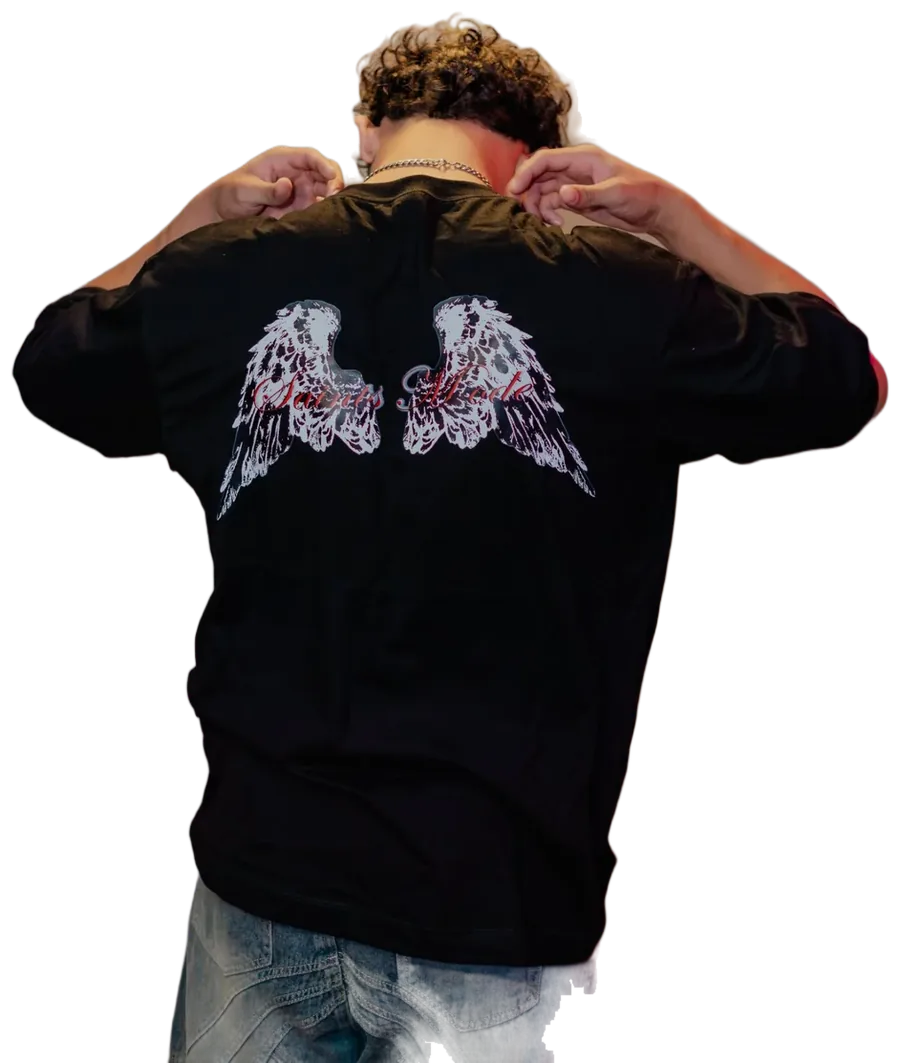
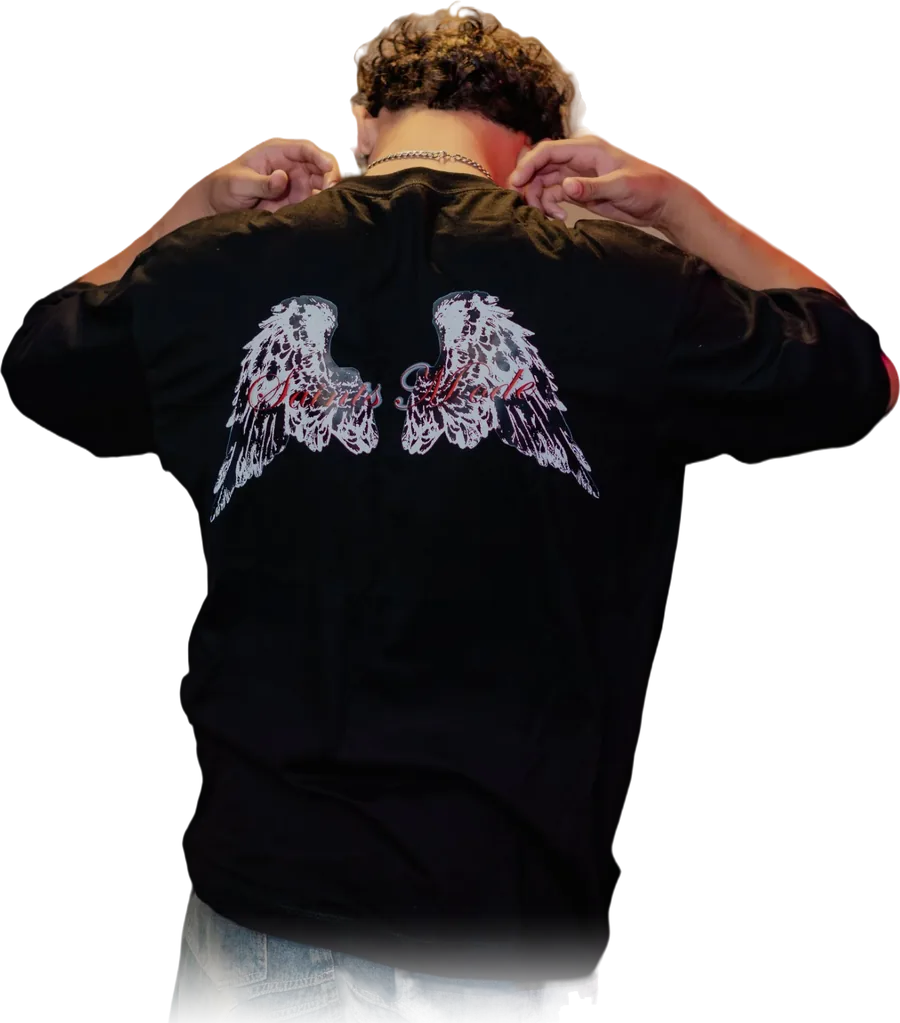
Sold out más grande y pegado distinto en cada camiseta; recorte limpio del modelo de rizos
Claude-Session: https://claude.ai/code/session_013ynmKTYERfCmJQKP2pb1Nx

diff --git a/js/components/product-card.js b/js/components/product-card.js
@@ -4,6 +4,17 @@ import { productVisual } from './product-art.js';
 import { bus } from '../core/bus.js';
 
 /**
+ * Dónde va pegado el sticker de SOLD OUT: cada camiseta (y cada color) lo
+ * tiene en un lugar y con un giro distinto, como pegado a mano.
+ */
+function stickerSpot(id, colorIndex) {
+  let h = 2166136261;
+  for (const ch of `${id}:${colorIndex}`) h = Math.imul(h ^ ch.charCodeAt(0), 16777619);
+  const r = (k) => (((h >>> (k * 5)) & 1023) / 1023) * 2 - 1; // -1..1
+  return `--st-rot:${(r(0) * 16).toFixed(1)}deg;--st-x:${(r(1) * 14).toFixed(1)}%;--st-y:${(r(2) * 16).toFixed(1)}%;--st-s:${(1 + r(3) * 0.08).toFixed(2)}`;
+}
+
+/**
  * Tarjeta de producto con inclinación 3D y brillo que sigue al mouse.
  * Los swatches cambian el color de la prenda en vivo.
  */
@@ -15,7 +26,7 @@ export function createProductCard(product, index = 0) {
         <span class="card__visual">${productVisual(product, 0)}</span>
         <span class="card__glare" aria-hidden="true"></span>
         ${product.tag ? `<span class="card__tag">${escapeHtml(product.tag)}</span>` : ''}
-        ${product.soldOut ? '<img class="card__stamp" src="assets/images/sold-out-sticker.svg" alt="" aria-hidden="true">' : ''}
+        ${product.soldOut ? `<img class="card__stamp" src="assets/images/sold-out-sticker.svg" alt="" aria-hidden="true" style="${stickerSpot(product.id, 0)}">` : ''}
         <span class="card__quick" aria-hidden="true">${product.soldOut ? 'Ver detalles' : 'Vista rápida +'}</span>
       </button>
       <div class="card__info">
@@ -52,6 +63,13 @@ export function createProductCard(product, index = 0) {
     void visual.offsetWidth;
     visual.classList.add('is-swapping');
     visual.innerHTML = productVisual(product, colorIndex);
+    const stamp = card.querySelector('.card__stamp');
+    if (stamp) {
+      stamp.setAttribute('style', stickerSpot(product.id, colorIndex));
+      stamp.classList.remove('is-slap');
+      void stamp.offsetWidth;
+      stamp.classList.add('is-slap');
+    }
   });
 
   card.getColorIndex = () => colorIndex;

diff --git a/css/components.css b/css/components.css
@@ -1170,29 +1170,49 @@ html.cursor-visible .cursor-ring {
 
 
 /* ---------- Sticker de SOLD OUT (graffiti) ---------- */
+/* --st-rot/x/y/s: cada tarjeta lo trae pegado distinto (product-card.js) */
 .card__stamp {
-  width: min(62%, 230px);
+  width: min(84%, 330px);
   height: auto;
   padding: 0;
   border: 0;
   border-radius: 0;
   background: none;
-  transform: translate(-50%, -50%) rotate(-8deg);
-  filter: drop-shadow(0 6px 10px rgba(0, 0, 0, 0.35));
+  transform: translate(calc(-50% + var(--st-x, 0%)), calc(-50% + var(--st-y, 0%))) rotate(var(--st-rot, -8deg)) scale(var(--st-s, 1));
+  filter: drop-shadow(0 8px 12px rgba(0, 0, 0, 0.4));
+  transition: opacity 0.3s, transform 0.4s var(--ease);
 }
 
 .card__media:hover .card__stamp {
-  transform: translate(-50%, -50%) rotate(-4deg) scale(1.04);
+  transform: translate(calc(-50% + var(--st-x, 0%)), calc(-50% + var(--st-y, 0%))) rotate(calc(var(--st-rot, -8deg) * 0.6)) scale(calc(var(--st-s, 1) * 1.04));
+}
+
+/* al cambiar de color, el sticker se "vuelve a pegar" */
+.card__stamp.is-slap {
+  animation: sticker-slap 0.4s var(--ease);
+}
+
+@keyframes sticker-slap {
+  0% { opacity: 0; scale: 1.35; }
+  60% { opacity: 1; scale: 0.94; }
+  100% { scale: 1; }
 }
 
 .qv__soldout {
   display: inline-block;
-  width: 116px;
+  width: 168px;
   height: auto;
-  margin-left: 4px;
+  margin: 4px 0 0 2px;
   padding: 0;
   border: 0;
   background: none;
   vertical-align: middle;
-  transform: rotate(-6deg);
+  transform: rotate(-7deg);
+  filter: drop-shadow(0 6px 10px rgba(0, 0, 0, 0.35));
+}
+
+@media (prefers-reduced-motion: reduce) {
+  .card__stamp.is-slap {
+    animation: none;
+  }
 }

diff --git a/index.html b/index.html
@@ -17,7 +17,7 @@
 
   <link rel="stylesheet" href="css/base.css?v=cd880eee">
   <link rel="stylesheet" href="css/layout.css?v=6f7146b4">
-  <link rel="stylesheet" href="css/components.css?v=942ec593">
+  <link rel="stylesheet" href="css/components.css?v=c0553903">
   <link rel="stylesheet" href="css/sections.css?v=f6ad2bb8">
   <link rel="stylesheet" href="css/vault.css?v=872ba58b">
   <link rel="stylesheet" href="css/drop.css?v=ba5a64d7">
@@ -57,7 +57,7 @@
       "./js/components/manifesto.js": "./js/components/manifesto.js?v=b0ba1172",
       "./js/components/marquee.js": "./js/components/marquee.js?v=251a2a8a",
       "./js/components/product-art.js": "./js/components/product-art.js?v=f1c7eda1",
-      "./js/components/product-card.js": "./js/components/product-card.js?v=bbbdd7a5",
+      "./js/components/product-card.js": "./js/components/product-card.js?v=8574f0f6",
       "./js/components/product-grid.js": "./js/components/product-grid.js?v=92202891",
       "./js/components/quick-view.js": "./js/components/quick-view.js?v=3f8fb493",
       "./js/components/reveal.js": "./js/components/reveal.js?v=1d3f83fc",

diff --git a/tools/recorte/recortar.py b/tools/recorte/recortar.py
@@ -51,6 +51,27 @@ def mask_for(sess, im):
     return m
 
 
+def defringe(im, m):
+    """Quita el halo del fondo en el borde: adelgaza un pelo la máscara y
+    rellena el color del borde con el color de adentro de la figura."""
+    import cv2
+    a = np.asarray(m).astype(np.float32) / 255.0
+    a = cv2.erode(a, np.ones((3, 3), np.uint8))
+    a = np.clip((a - 0.12) / 0.88, 0, 1)
+    img = np.asarray(im).astype(np.float32)
+    inner = (a > 0.97).astype(np.float32)
+    inner = cv2.erode(inner, np.ones((5, 5), np.uint8))
+    k = max(15, int(min(im.size) * 0.02) | 1)
+    num = cv2.GaussianBlur(img * inner[..., None], (k, k), 0)
+    den = cv2.GaussianBlur(inner, (k, k), 0)[..., None]
+    fg = np.where(den > 1e-3, num / np.maximum(den, 1e-3), img)
+    band = ((a > 0.01) & (a < 0.97)).astype(np.float32)
+    band = cv2.GaussianBlur(cv2.dilate(band, np.ones((5, 5), np.uint8)), (5, 5), 0)[..., None]
+    out = img * (1 - band) + fg * band
+    rgba = np.dstack([np.clip(out, 0, 255), a * 255]).astype(np.uint8)
+    return Image.fromarray(rgba, 'RGBA')
+
+
 def keep_largest(m):
     """Deja solo la figura más grande (quita lámparas, objetos sueltos)."""
     import cv2
@@ -71,7 +92,7 @@ def cut(sess, path, out_dir, max_side, largest=True):
         m = keep_largest(m)
     # borde limpio: sube el contraste de la máscara y suaviza un pelo
     m = m.point(lambda v: 0 if v < 20 else 255 if v > 235 else int((v - 20) * 255 / 215)).filter(ImageFilter.GaussianBlur(0.6))
-    rgba = im.copy(); rgba.putalpha(m)
+    rgba = defringe(im, m)
     bb = m.point(lambda v: 255 if v > 30 else 0).getbbox()
     if bb:
         pad = 12
